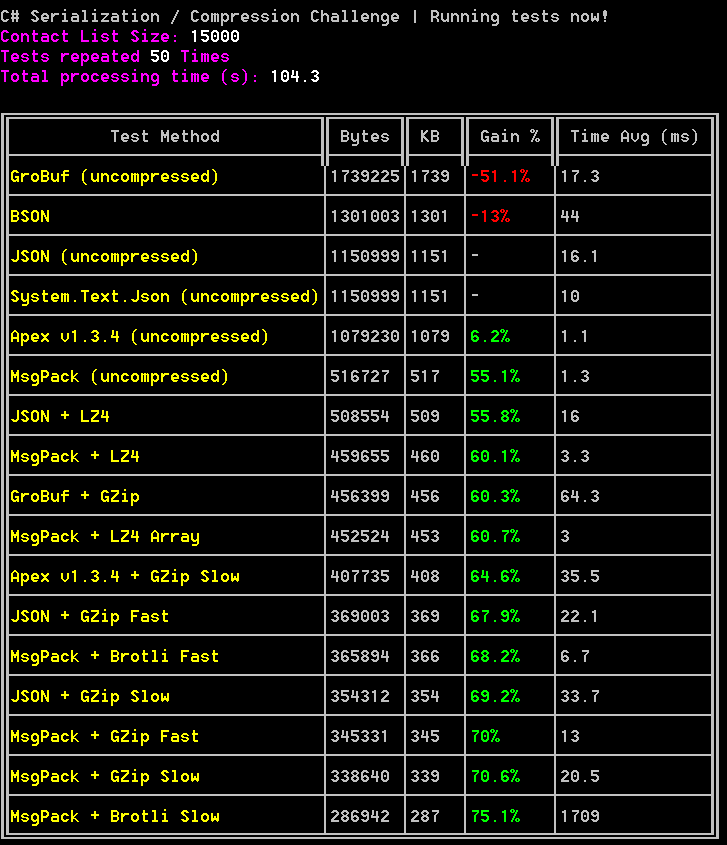
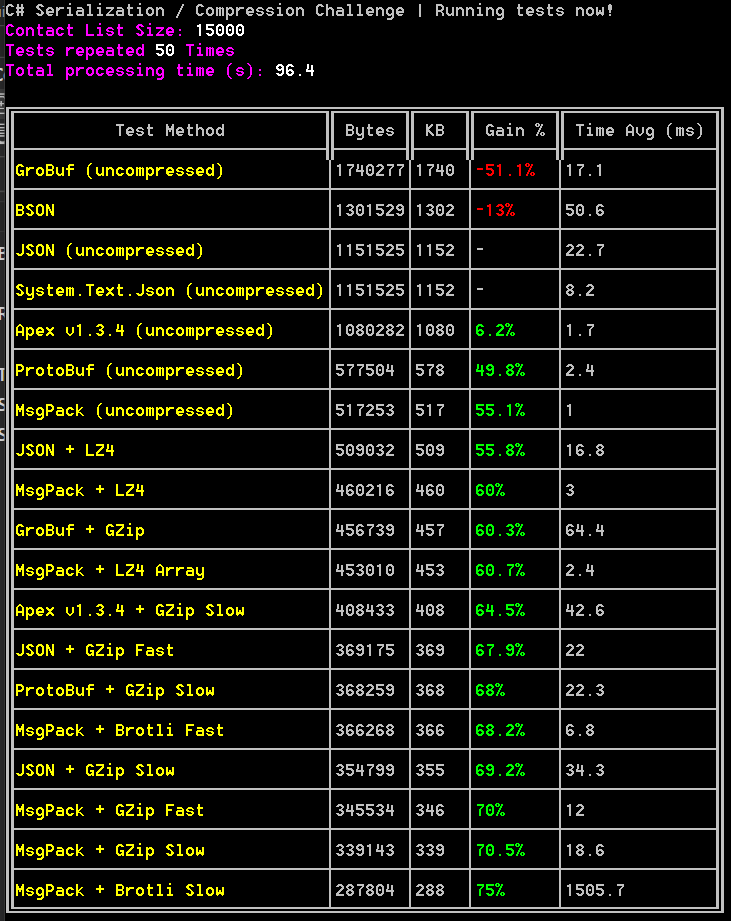
Updated results + readme

Changed region(s): [[0.0, 0.0, 0.9986, 1.0]]

diff --git a/README.md b/README.md
@@ -33,7 +33,7 @@ Using JSON string as a baseline, the following format / compression combos where
 * MsgPack + Brotli Fast and Slow (Brotli slow is _*slow*_, like 1.5s slow in my machine, disabled it by default)
 * Apex.Serialization, uncompressed + GZip
 * GroBuf, uncompressed + GZip
-
+* ProtoBuf, uncompressed + GZip
 
 # Results
 
@@ -56,5 +56,6 @@ Just copy `JsonTest.cs` and add your own implementation to it.
     * Currently not supporting .net5, added the files to the project directly
 * [Apex.Serialization](https://github.com/dbolin/Apex.Serialization/)
 * [GroBuf](https://github.com/skbkontur/GroBuf/)
+* [ProtoBuf](https://github.com/protobuf-net/protobuf-net)
 
 
